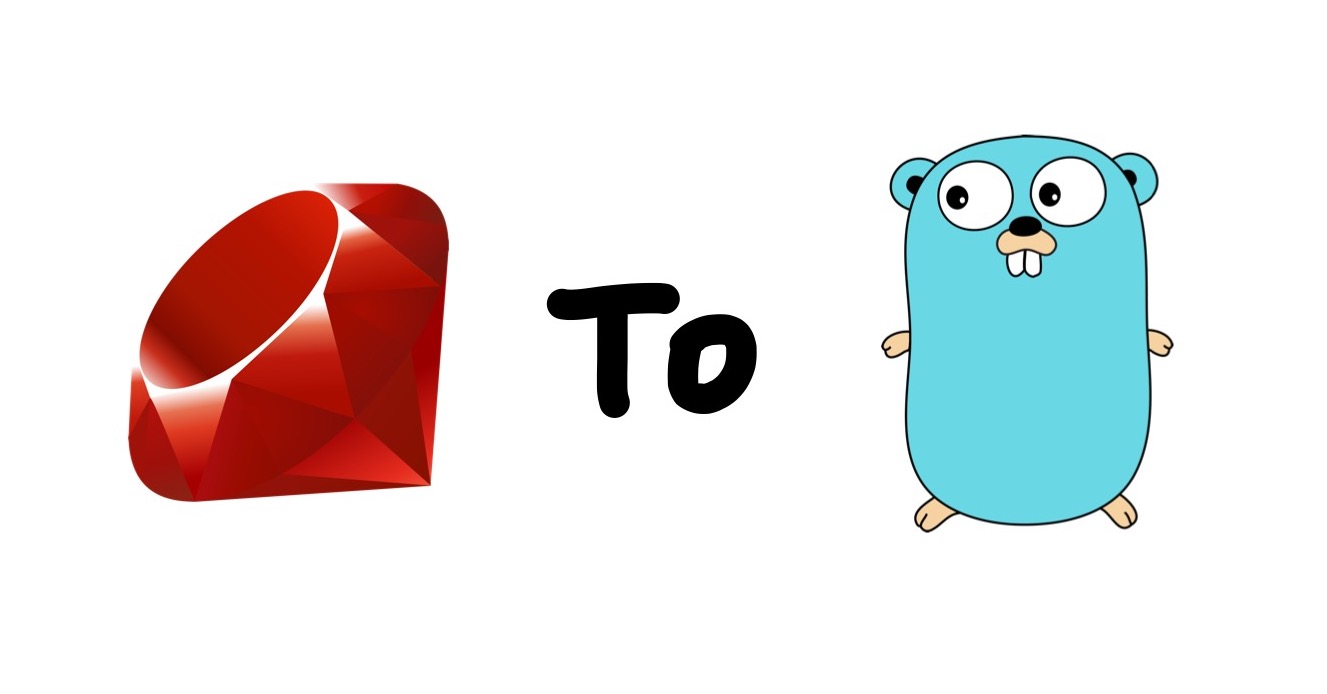
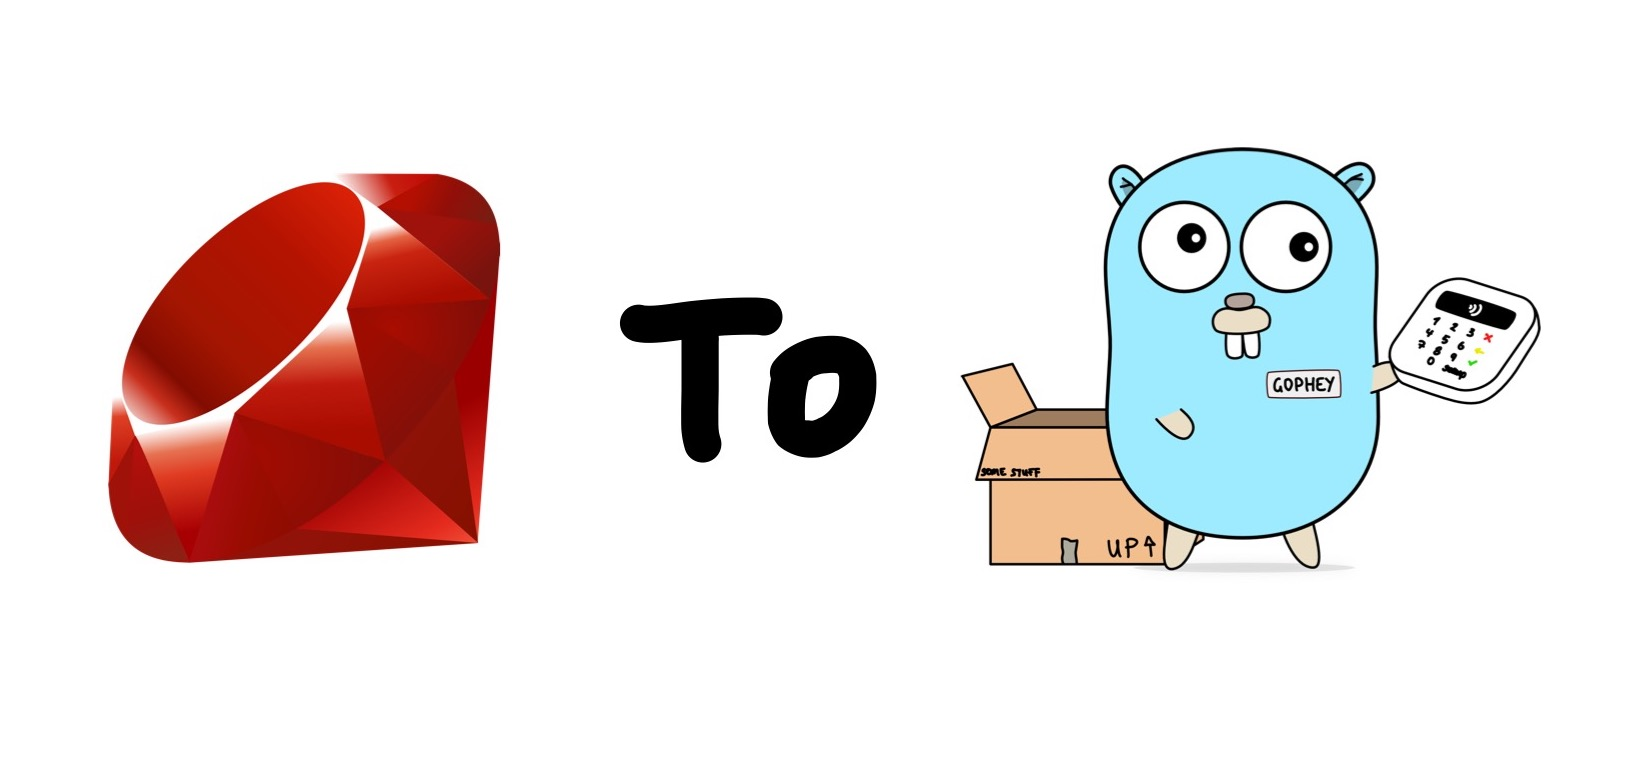
Update gopher image to custom

Changed region(s): [[0.3708, 0.1816, 0.9578, 0.7867], [0.0618, 0.2118, 0.3399, 0.7565]]

diff --git a/go-debugging/README.md b/go-debugging/README.md
@@ -34,6 +34,8 @@ Theseus, which is written in Go. This was built in order to make it easier to
 bootstrap our payments applications in ephemeral environments with all of their
 dependencies.
 
+<- slide ->
+
 ---
 
 # Go in Logistics
@@ -54,15 +56,20 @@ This has brought a massive improvement in productivity, reliability and
 observability of our processes. As well as a steady platform to expand our
 logistics operations into new markets.
 
-<- slides ->
-
 Go in particular has made this easy to do with its simplicity. We've found that
 engineers new to Go have had an easy time picking it up and becoming productive.
+
+<- slide ->
+<- slide ->
+<- slide ->
+<- slide ->
 
 Another benefit I consider is its relative lack of abstractions. Logistics is
 one of those domains with many edge cases. Go intentionally doesn't
 give you the power to build complicated abstractions that some other languages
 do.
+
+<- slide ->
 
 I find that heavy use of abstractions shifts the burden onto the *developer* to
 be sure that they are valid across a variety of scenarios, or in our case,

diff --git a/go-debugging/slides.md b/go-debugging/slides.md
@@ -46,6 +46,7 @@
 - Legacy Python scripts
   - Lack of monitoring
   - Email alerts
+  - Git clone deployment
 - Replaced with Go services
   - Deployed to Kubernetes
   - Prometheus, Sentry, OpsGenie
@@ -81,7 +82,7 @@
 
 # Leaky Abstractions
 
-![Leaky Rust Abstraction](./media/rust-dense.jpg){ width=350px }
+![(Probably) leaky Rust Abstraction](./media/rust-dense.jpg){ width=350px }
 
 ---
 
